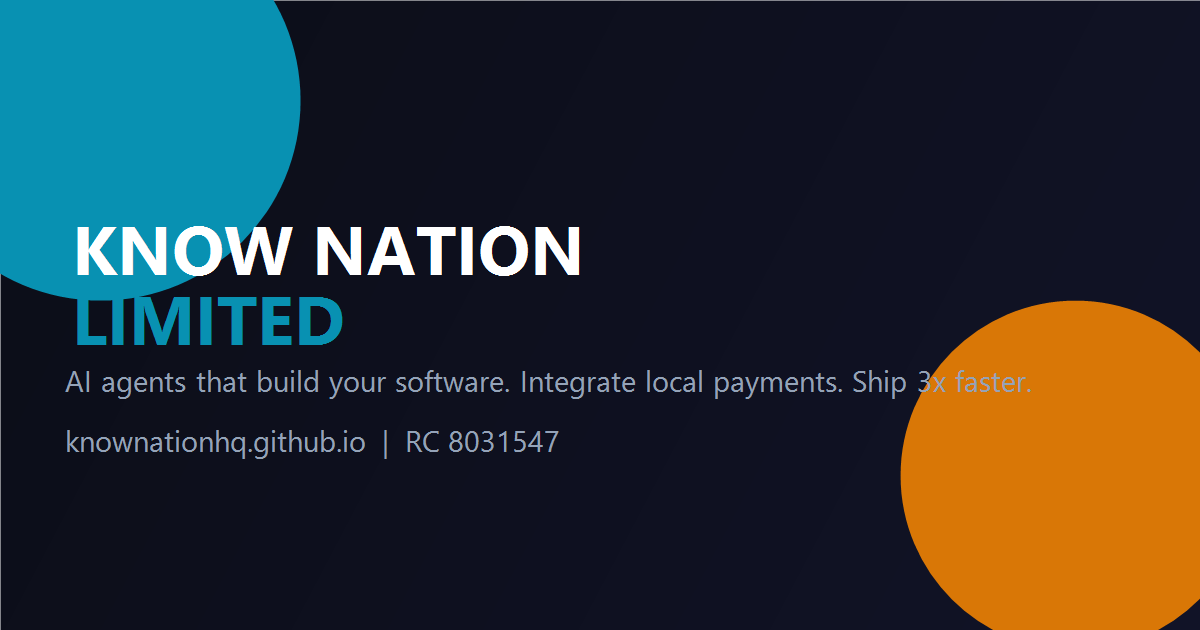
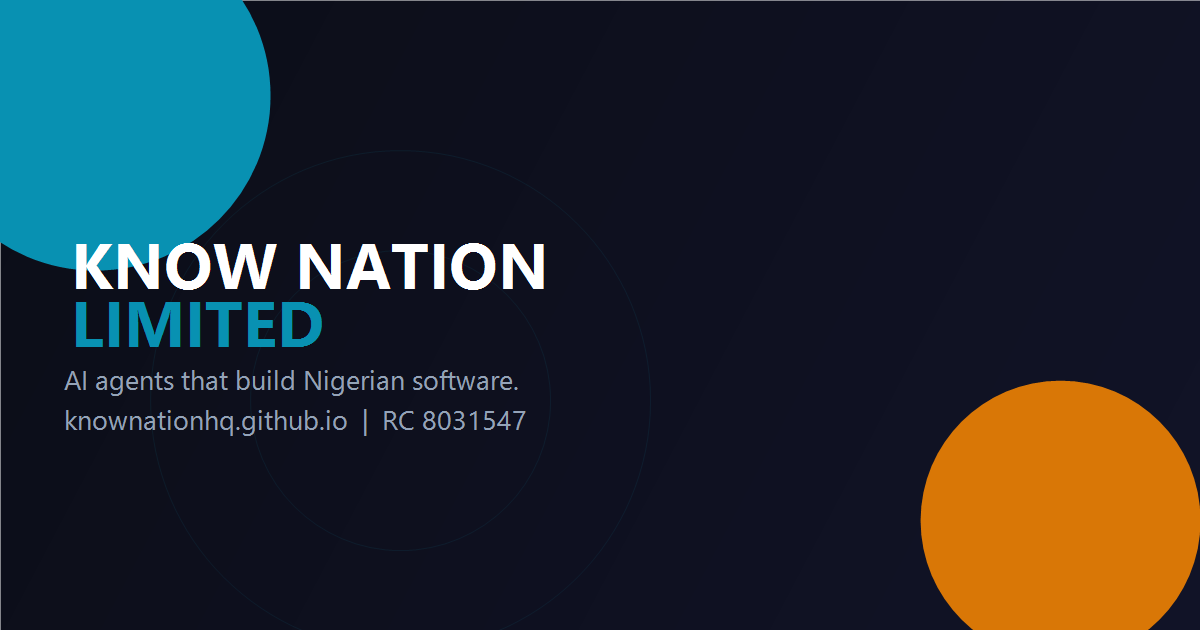
replace hero lady image with abstract SVG agent-network illustration + updated OG

Changed region(s): [[0.0, 0.0, 1.0, 0.8746], [0.9558, 0.8444, 1.0, 1.0], [0.7708, 0.9349, 0.8325, 1.0]]

diff --git a/index.html b/index.html
@@ -120,9 +120,9 @@
     .hero p{font-size:0.92rem;color:var(--text-light);max-width:480px;margin:0 auto 22px;line-height:1.7}
     .hero-actions{display:flex;gap:10px;justify-content:center;flex-wrap:wrap}
     .hero-actions .btn{padding:12px 20px;font-size:0.85rem}
-    .hero-image{position:relative}
-    .hero-image img{max-width:200px;border-radius:var(--radius-lg);box-shadow:0 20px 60px rgba(0,0,0,0.3)}
-    .hero-image .glow{position:absolute;inset:-8px;border-radius:calc(var(--radius-lg)+8px);background:linear-gradient(135deg,var(--accent),transparent,var(--warm));opacity:0.12;z-index:-1;filter:blur(12px)}
+    .hero-image{position:relative;display:flex;align-items:center;justify-content:center}
+    .hero-image svg{width:280px;height:280px}
+    .hero-image .glow{position:absolute;width:300px;height:300px;border-radius:50%;background:linear-gradient(135deg,var(--accent),transparent,var(--warm));opacity:0.1;z-index:-1;filter:blur(40px)}
 
     /* Stats */
     .stats-bar{background:var(--bg-mid);border-top:1px solid rgba(255,255,255,0.04);padding:24px 0}
@@ -289,7 +289,7 @@
       .hero .container{padding-top:100px;padding-bottom:60px;gap:36px}
       .hero h1{font-size:2.2rem}
       .hero p{font-size:1rem}
-      .hero-image img{max-width:240px}
+      .hero-image svg{width:320px;height:320px}.hero-image .glow{width:340px;height:340px}
       .stats-bar .container{gap:48px}
       .stat .num{font-size:1.5rem}
       .process-grid{flex-direction:row;gap:12px}
@@ -317,7 +317,7 @@
       .hero h1{font-size:2.8rem}
       .hero p{margin:0 0 28px;font-size:1.05rem}
       .hero-actions{justify-content:flex-start}
-      .hero-image img{max-width:320px}
+      .hero-image svg{width:380px;height:380px}.hero-image .glow{width:400px;height:400px}
       .stats-bar{padding:28px 0}
       .stats-bar .container{gap:64px}
       .stat .num{font-size:1.6rem}
@@ -335,7 +335,7 @@
     }
     @media(min-width:1200px){
       .hero h1{font-size:3.2rem}
-      .hero-image img{max-width:360px}
+      .hero-image svg{width:420px;height:420px}.hero-image .glow{width:440px;height:440px}
     }
   </style>
 </head>
@@ -372,7 +372,46 @@
     </div>
     <div class="hero-image">
       <div class="glow"></div>
-      <img src="hero.png" alt="KnowNation" loading="lazy">
+      <svg viewBox="0 0 400 400" fill="none" xmlns="http://www.w3.org/2000/svg">
+        <defs>
+          <linearGradient id="g1" x1="0" y1="0" x2="1" y2="1"><stop offset="0%" stop-color="#0891B2"/><stop offset="100%" stop-color="#06B6D4"/></linearGradient>
+          <linearGradient id="g2" x1="0" y1="0" x2="1" y2="1"><stop offset="0%" stop-color="#D97706"/><stop offset="100%" stop-color="#F59E0B"/></linearGradient>
+          <filter id="glow"><feGaussianBlur stdDeviation="4" result="blur"/><feMerge><feMergeNode in="blur"/><feMergeNode in="SourceGraphic"/></feMerge></filter>
+        </defs>
+        <circle cx="200" cy="200" r="180" stroke="url(#g1)" stroke-width="0.5" opacity="0.15"/>
+        <circle cx="200" cy="200" r="130" stroke="url(#g1)" stroke-width="0.5" opacity="0.15"/>
+        <circle cx="200" cy="200" r="80" stroke="url(#g2)" stroke-width="0.5" opacity="0.12"/>
+        <line x1="200" y1="40" x2="310" y2="120" stroke="rgba(8,145,178,0.15)" stroke-width="1"/>
+        <line x1="200" y1="40" x2="90" y2="120" stroke="rgba(8,145,178,0.15)" stroke-width="1"/>
+        <line x1="200" y1="40" x2="200" y2="90" stroke="rgba(8,145,178,0.2)" stroke-width="1"/>
+        <line x1="310" y1="120" x2="340" y2="250" stroke="rgba(8,145,178,0.12)" stroke-width="1"/>
+        <line x1="90" y1="120" x2="60" y2="250" stroke="rgba(8,145,178,0.12)" stroke-width="1"/>
+        <line x1="310" y1="120" x2="200" y2="310" stroke="rgba(217,119,6,0.12)" stroke-width="1"/>
+        <line x1="90" y1="120" x2="200" y2="310" stroke="rgba(217,119,6,0.12)" stroke-width="1"/>
+        <line x1="200" y1="90" x2="310" y2="120" stroke="rgba(8,145,178,0.1)" stroke-width="1"/>
+        <line x1="200" y1="90" x2="90" y2="120" stroke="rgba(8,145,178,0.1)" stroke-width="1"/>
+        <line x1="200" y1="310" x2="340" y2="250" stroke="rgba(217,119,6,0.1)" stroke-width="1"/>
+        <line x1="200" y1="310" x2="60" y2="250" stroke="rgba(217,119,6,0.1)" stroke-width="1"/>
+        <line x1="340" y1="250" x2="60" y2="250" stroke="rgba(217,119,6,0.08)" stroke-width="1"/>
+        <line x1="200" y1="310" x2="200" y2="360" stroke="rgba(217,119,6,0.1)" stroke-width="1"/>
+        <line x1="200" y1="360" x2="260" y2="330" stroke="rgba(217,119,6,0.08)" stroke-width="1"/>
+        <line x1="200" y1="360" x2="140" y2="330" stroke="rgba(217,119,6,0.08)" stroke-width="1"/>
+        <circle cx="200" cy="40" r="12" fill="url(#g1)" filter="url(#glow)"/>
+        <circle cx="310" cy="120" r="8" fill="url(#g1)" filter="url(#glow)"/>
+        <circle cx="90" cy="120" r="8" fill="url(#g1)" filter="url(#glow)"/>
+        <circle cx="200" cy="90" r="5" fill="#0891B2" opacity="0.6"/>
+        <circle cx="340" cy="250" r="6" fill="url(#g2)" filter="url(#glow)"/>
+        <circle cx="60" cy="250" r="6" fill="url(#g2)" filter="url(#glow)"/>
+        <circle cx="200" cy="310" r="10" fill="url(#g2)" filter="url(#glow)"/>
+        <circle cx="200" cy="360" r="7" fill="url(#g2)" filter="url(#glow)"/>
+        <circle cx="260" cy="330" r="4" fill="#D97706" opacity="0.5"/>
+        <circle cx="140" cy="330" r="4" fill="#D97706" opacity="0.5"/>
+        <circle cx="200" cy="200" r="3" fill="#0891B2" opacity="0.4"/>
+        <circle cx="270" cy="170" r="2" fill="#0891B2" opacity="0.3"/>
+        <circle cx="130" cy="170" r="2" fill="#0891B2" opacity="0.3"/>
+        <circle cx="240" cy="260" r="2" fill="#D97706" opacity="0.3"/>
+        <circle cx="160" cy="260" r="2" fill="#D97706" opacity="0.3"/>
+      </svg>
     </div>
   </div>
 </section>